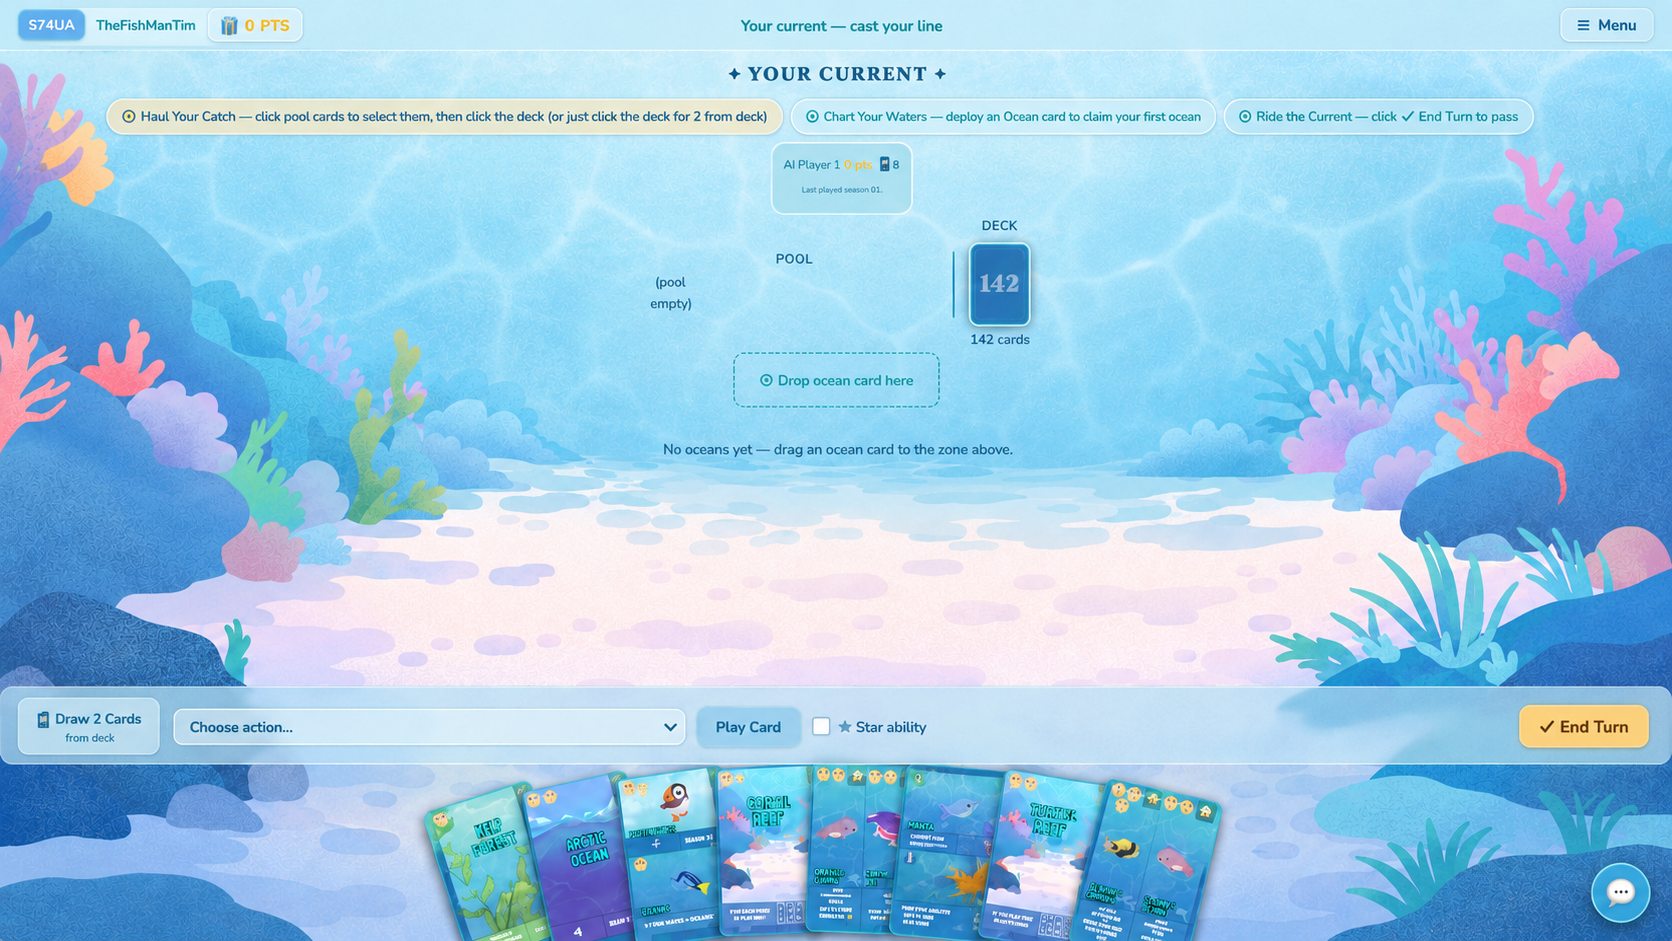
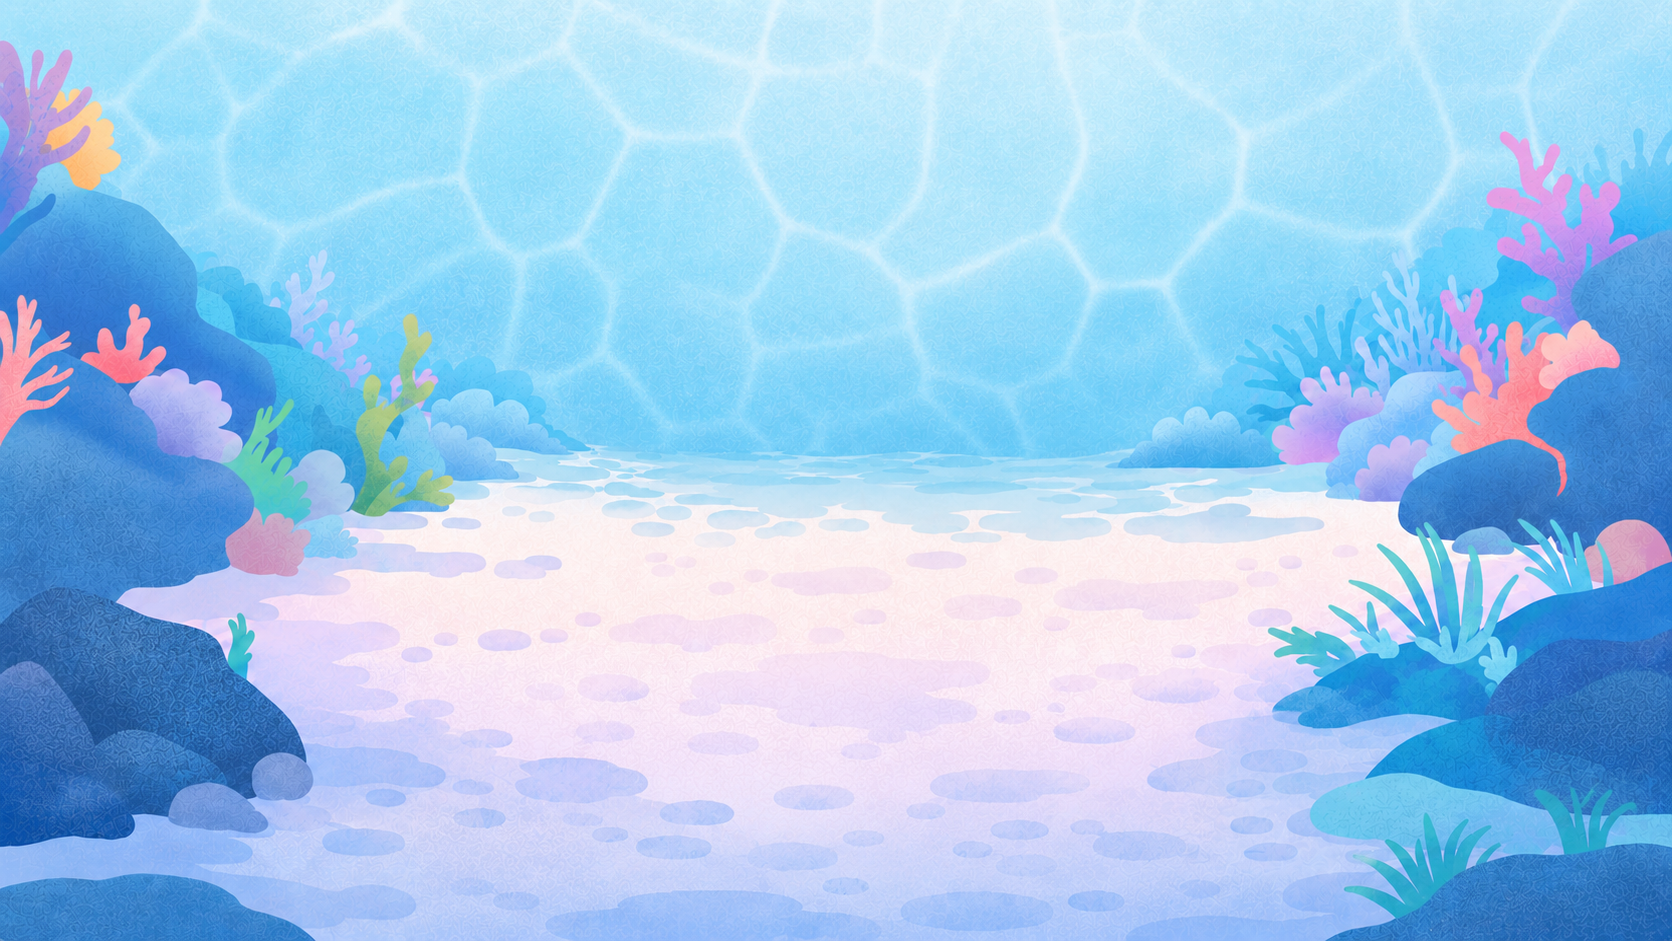
Game board: use correct pastel seafloor background art
Replaced the game screenshot (ph-bg-game-art.png) with the clean underwater
illustration — sandy seafloor, blue water with light-hex pattern, coral/rock
formations at edges. Updated #pv-game background URL to point to this file.

diff --git a/multiplayer/client/preview.html b/multiplayer/client/preview.html
@@ -274,7 +274,7 @@
       flex-direction: column;
       height: 100vh;
       overflow: hidden;
-      background: url("/ph-bg-achievements-art.png") center center / cover no-repeat;
+      background: url("/ph-bg-game-art.png") center center / cover no-repeat;
     }
 
     /* ── NOTICE BAR ─────────────────────────────────────────────── */
